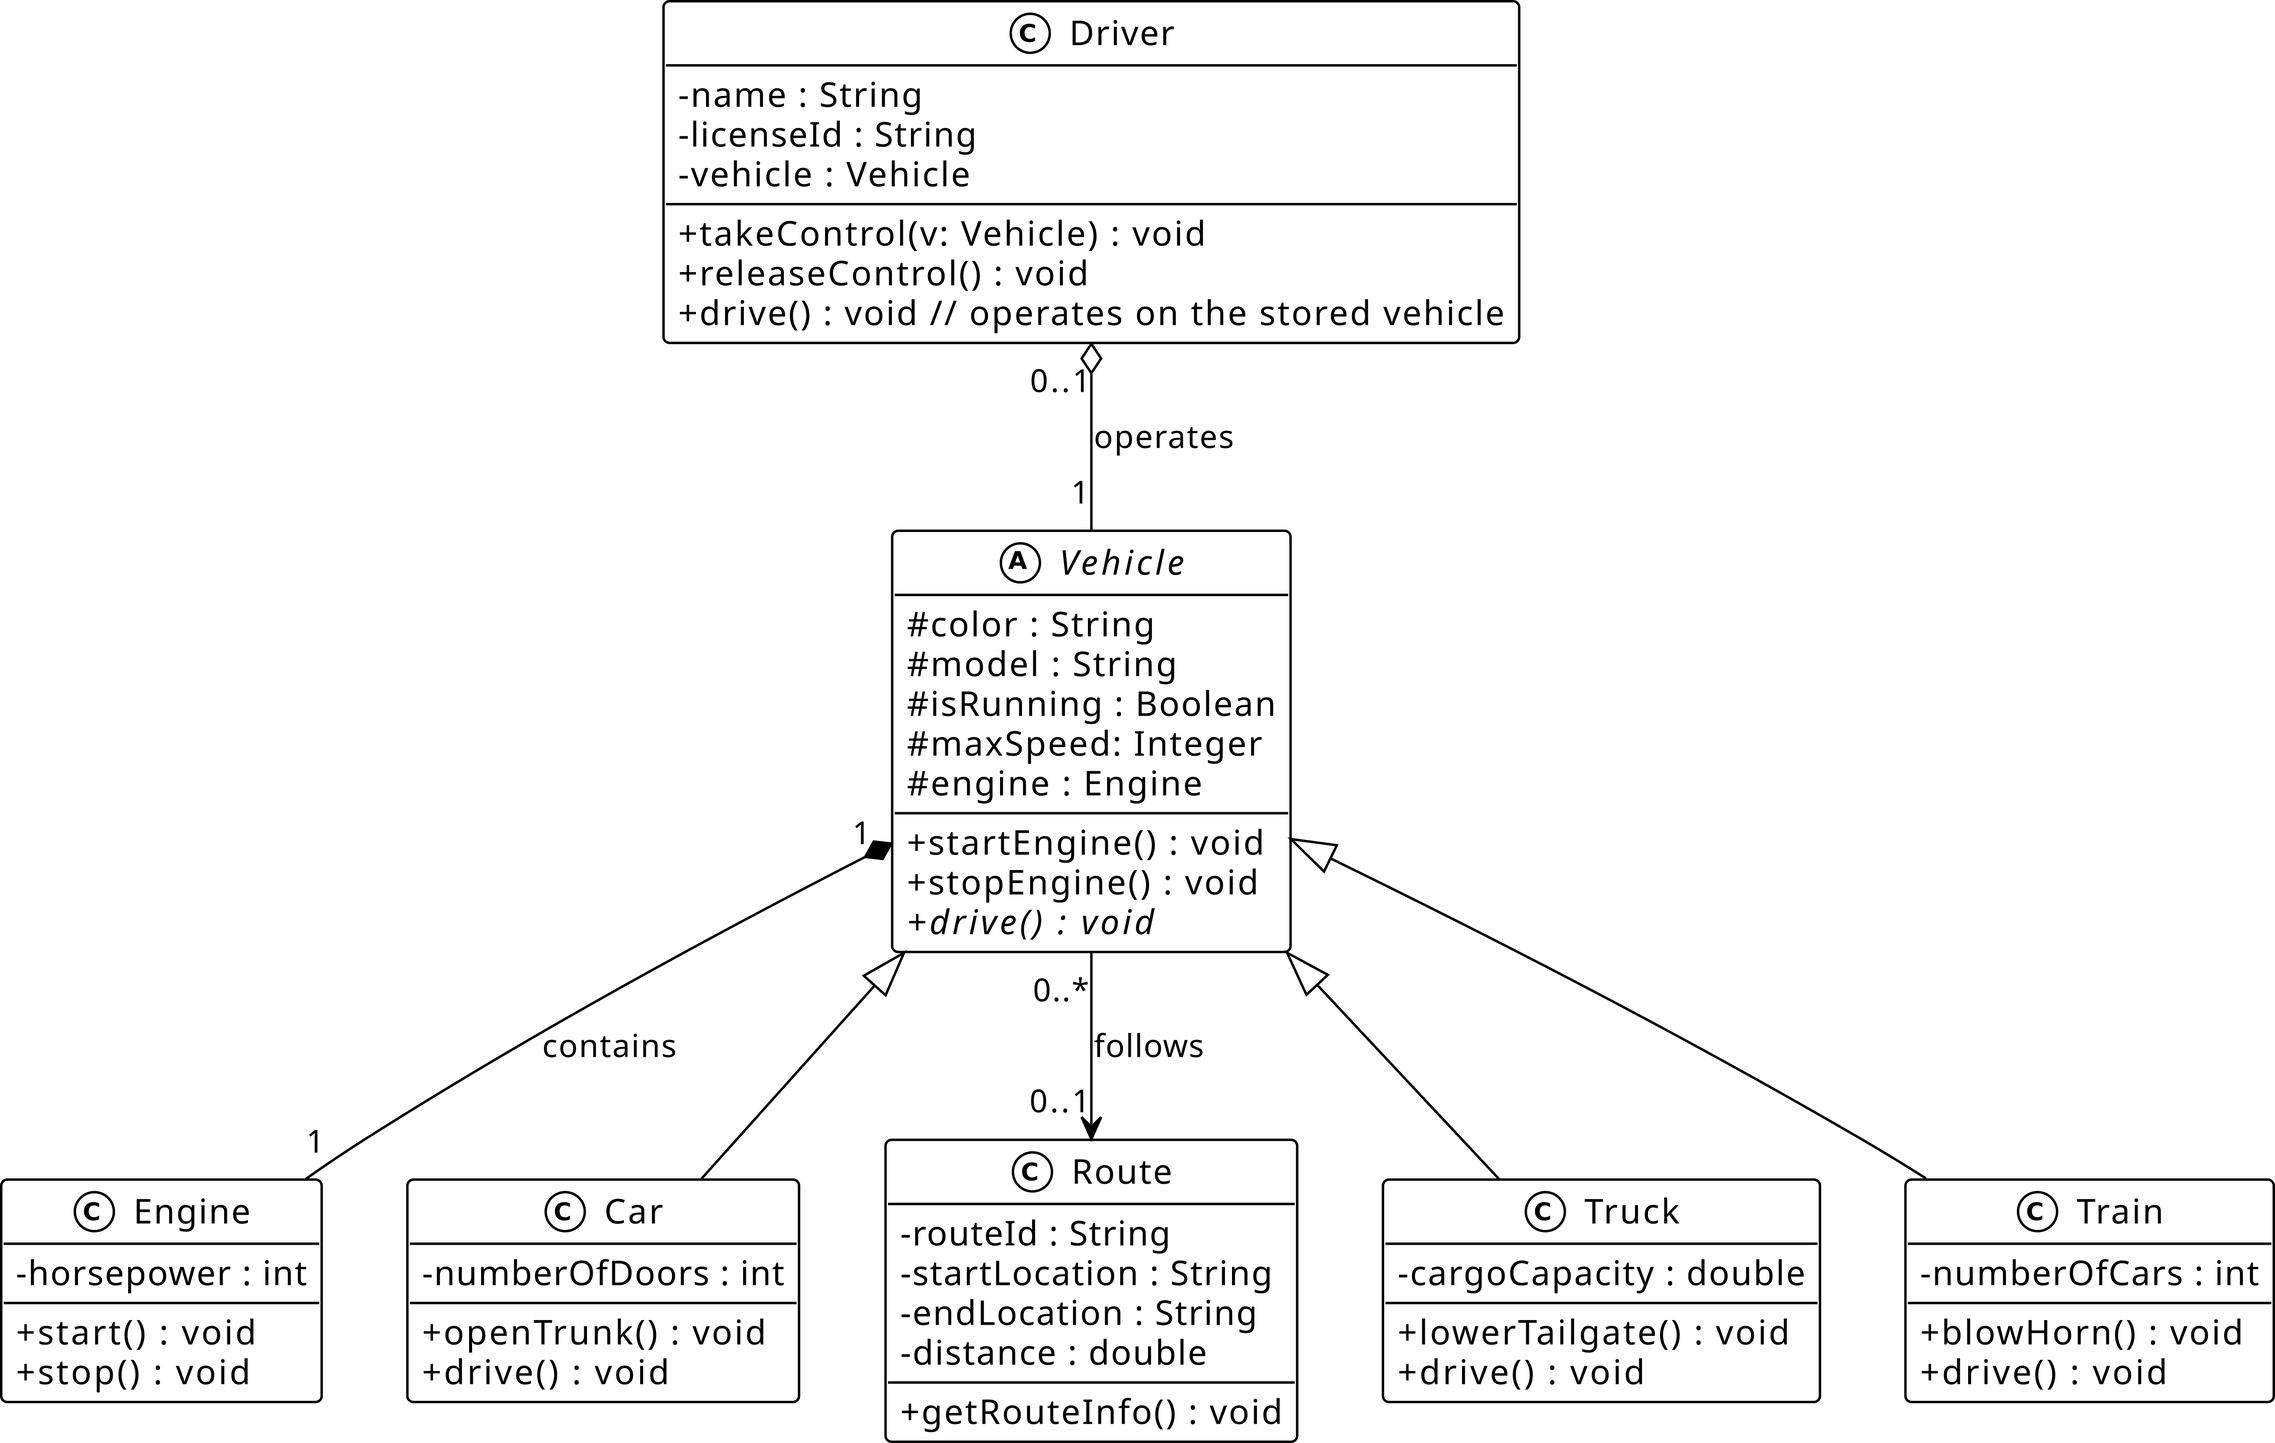
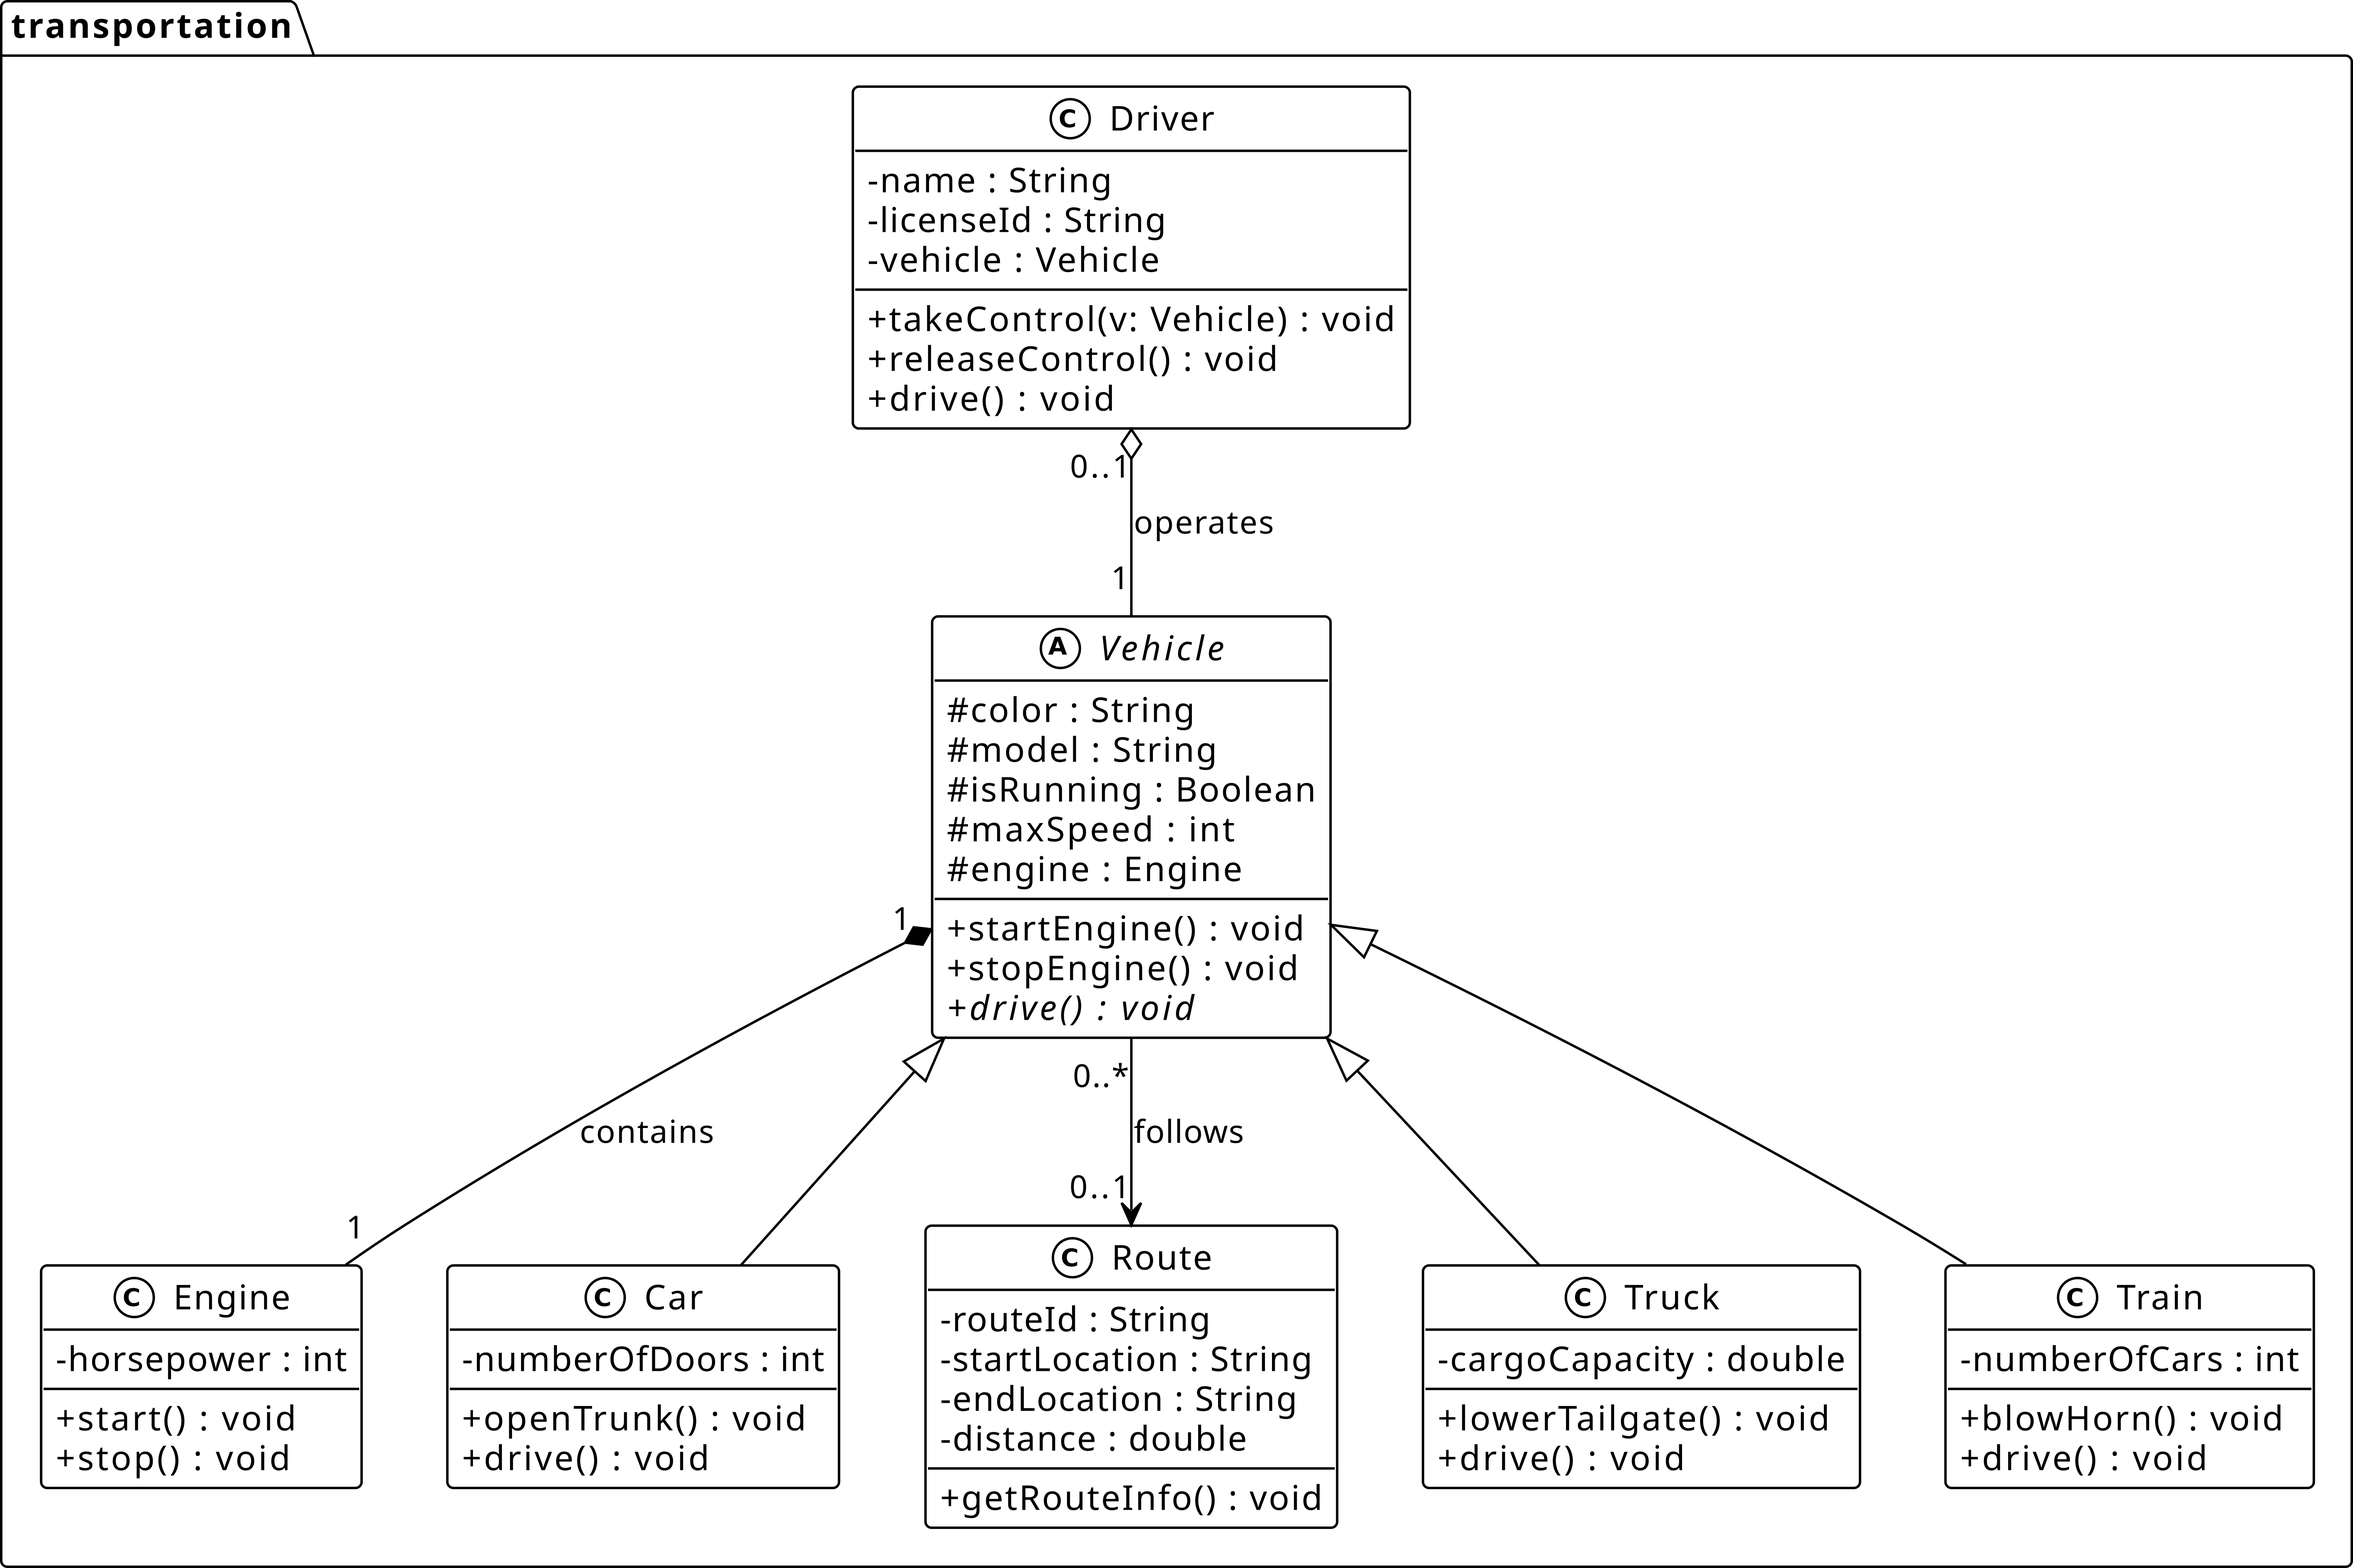
added namespace

diff --git a/docs/source/lecture8/references.rst b/docs/source/lecture8/references.rst
@@ -1,13 +1,13 @@
 References
 ==========
 
-**Books:**
+- **Books:**
 
-- *Effective C++* by Scott Meyers - Items on class design
-- *C++ Primer* (5th Edition) - Chapter 7: Classes
-- *Design Patterns* by Gang of Four - Foundational OOP patterns
-- ISO/IEC 14882:2017 — *C++17 Standard*.
-- B. Stroustrup, *The C++ Programming Language*, 4th Ed.
+  - *Effective C++* by Scott Meyers - Items on class design
+  - *C++ Primer* (5th Edition) - Chapter 7: Classes
+  - *Design Patterns* by Gang of Four - Foundational OOP patterns
+  - ISO/IEC 14882:2017 — *C++17 Standard*.
+  - B. Stroustrup, *The C++ Programming Language*, 4th Ed.
 
 - **UML and Design:**
 
